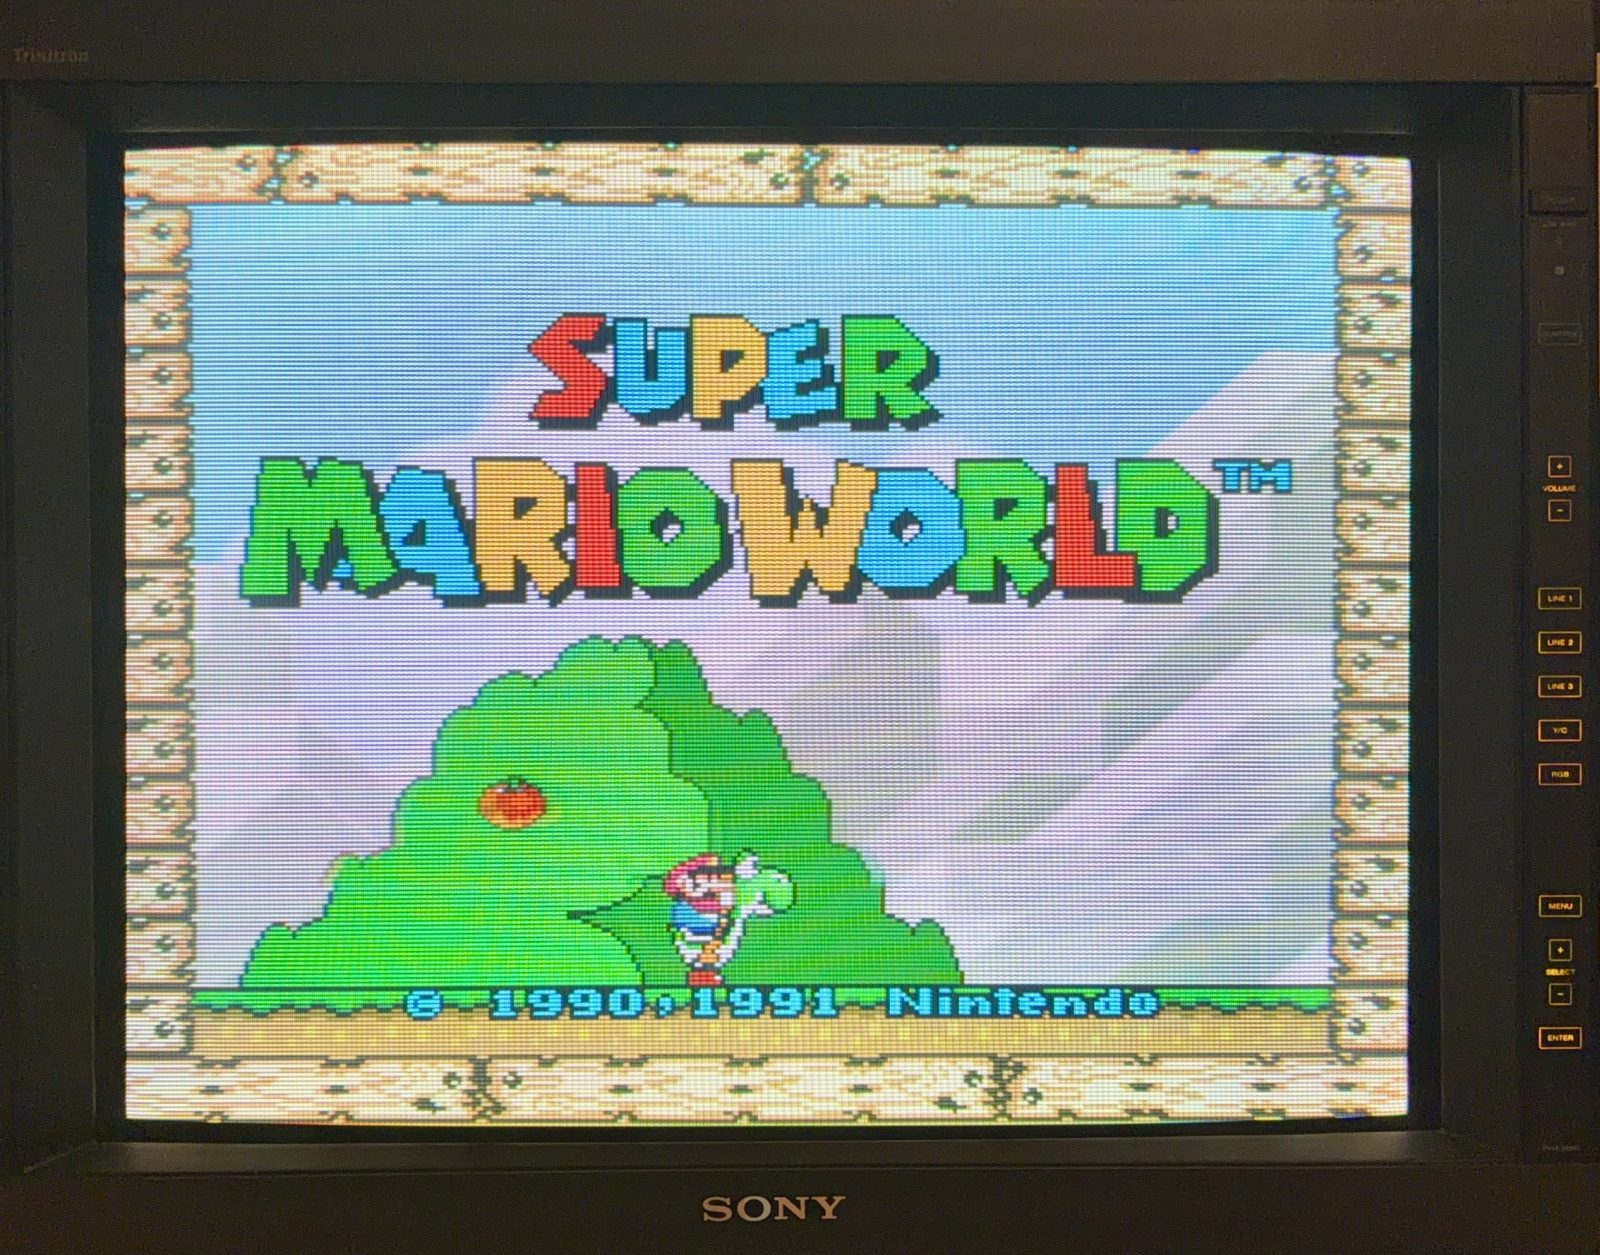
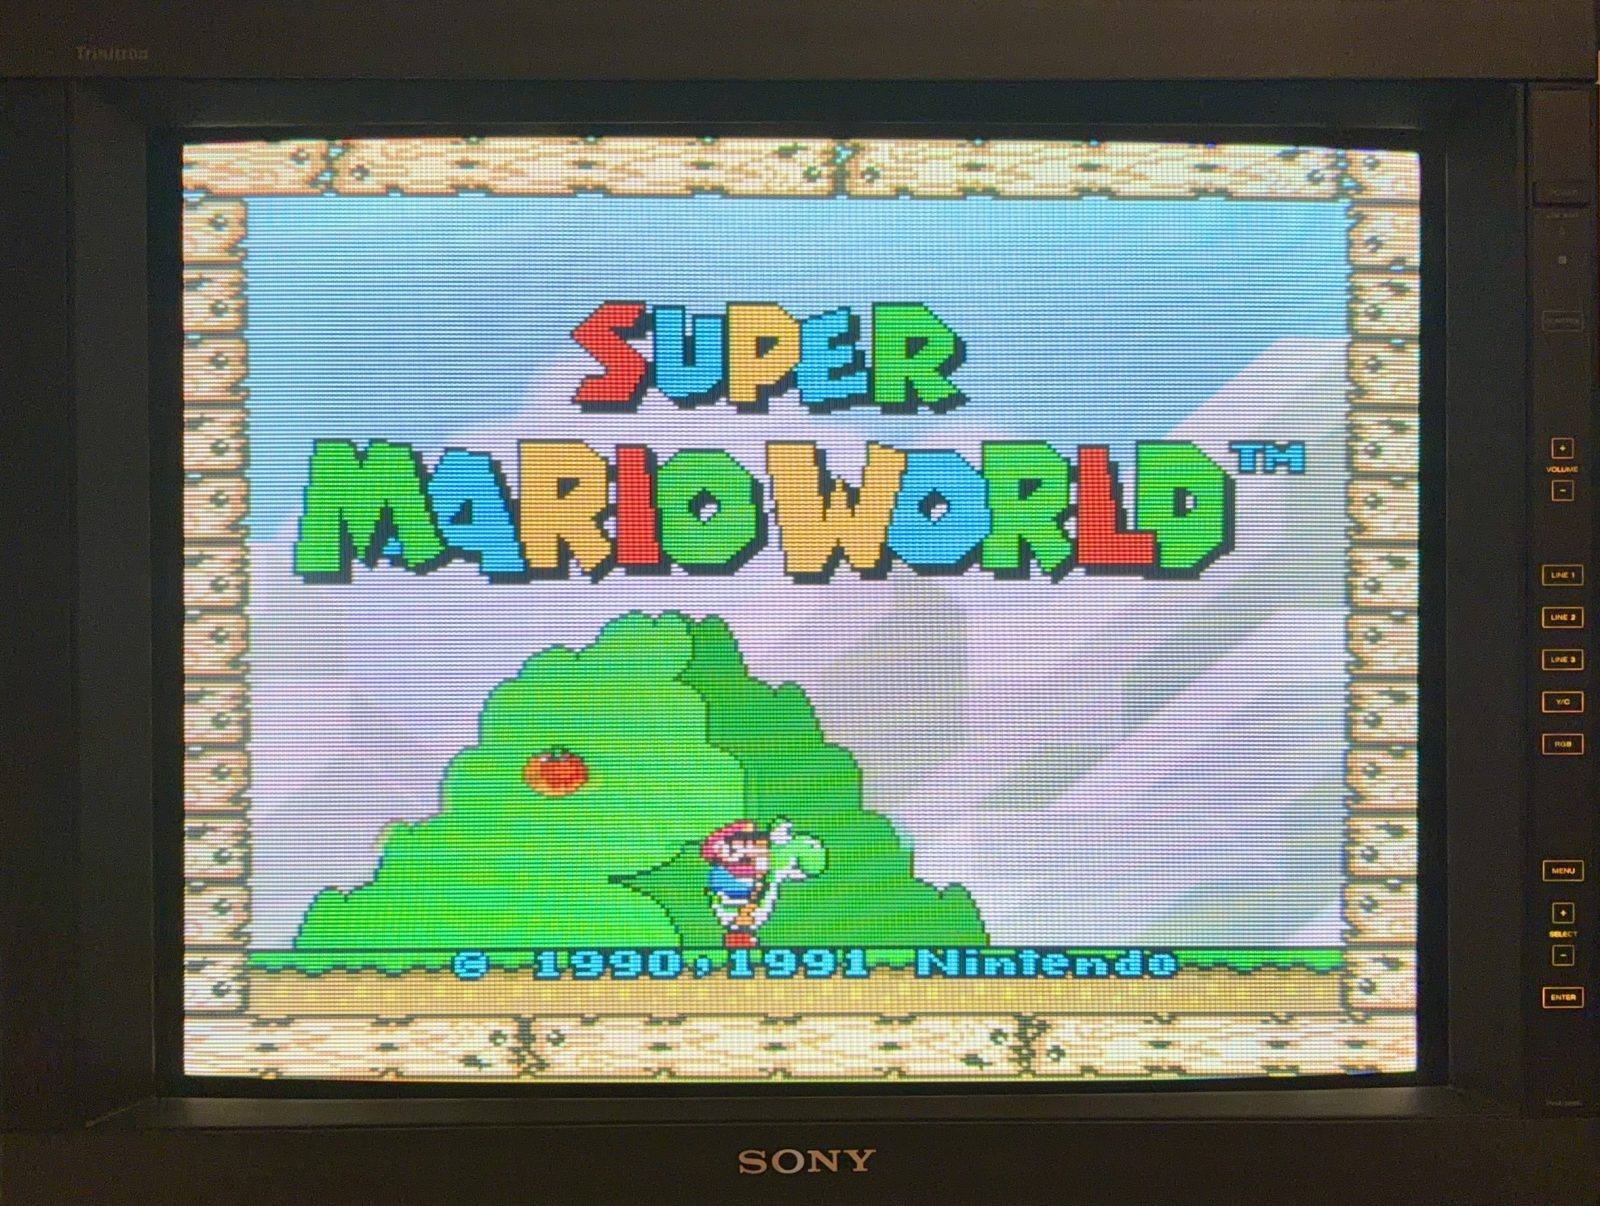
PVM-2950Q: use crop A -- cabinet edge to cabinet edge
The previous crop trimmed into the left cheek while leaving the right side
at the cabinet edge, which reads as uneven. David picked A. Same top and
bottom, left edge back out to the cabinet: (282,12)-(2640,1790) of the
IMG_3926 master -> 1600x1206, thumb 800x603, refs ?v=7.

diff --git a/assets/gallery-data.js b/assets/gallery-data.js
@@ -26,7 +26,7 @@ const GALLERY = [
   { type: "image", src: "media/2026/collectibles-shelf.jpg", title: "The shelf of accomplices", caption: "Gundam, Rick and Morty, and a full Thundercats bench keeping watch over the library", cat: "misc" , w: 800, h: 1067 },
   { type: "image", src: "media/2026/bvm-20e1u-lit.jpg", title: "BVM-20E1U", caption: "The primary broadcast chassis in the garage rack, AMS-100 on top — two BKM slots still open", cat: "monitors" , w: 800, h: 870 },
   { type: "image", src: "media/2026/bvm-a14f5u-lit.jpg?v=2", title: "BVM-A14F5U", caption: "Fully kitted: all three card slots filled, control panel and keypad flanking the tube", cat: "monitors" , w: 800, h: 603 },
-  { type: "image", src: "media/2026/pvm-2950q.jpg?v=6", title: "PVM-2950Q", caption: "The 29-inch presence in the game room, lit at night with Super Mario World on the tube", cat: "monitors" , w: 800, h: 627 },
+  { type: "image", src: "media/2026/pvm-2950q.jpg?v=7", title: "PVM-2950Q", caption: "The 29-inch presence in the game room, lit at night with Super Mario World on the tube", cat: "monitors" , w: 800, h: 603 },
   { type: "image", src: "media/2026/pvm-20l5.jpg?v=3", title: "PVM-20L5", caption: "Late-generation 20-inch multiformat, AMS-100 on top, Super Mario Sunshine on the tube", cat: "monitors" , w: 800, h: 834 },
   { type: "image", src: "media/2026/dk-portrait.jpg?v=2", title: "Donkey Kong", caption: "Blue plywood &mdash; marquee lit in the garage row", cat: "arcade" , w: 800, h: 1067 },
   { type: "image", src: "media/2026/unisystem-screen.jpg?v=2", title: "VS. Super Mario Bros.", caption: "The dedicated UniSystem in attract mode &mdash; the arcade version, which is not the one you remember", cat: "arcade" , w: 800, h: 600 },

diff --git a/monitors.html b/monitors.html
@@ -168,7 +168,7 @@
     <h2 class="sec">The fleet roster</h2>
     <div class="grid fleetgrid">
       <div class="card">
-        <img class="cthumb" src="media/thumbs/pvm-2950q.jpg?v=6" data-full="media/2026/pvm-2950q.jpg?v=6" alt="Sony PVM-2950Q 29-inch Trinitron production monitor lit at night running Super Mario World, its control panel and the SONY badge in frame" loading="lazy" width="800" height="627">
+        <img class="cthumb" src="media/thumbs/pvm-2950q.jpg?v=7" data-full="media/2026/pvm-2950q.jpg?v=7" alt="Sony PVM-2950Q 29-inch Trinitron production monitor lit at night running Super Mario World, its control panel and the SONY badge in frame" loading="lazy" width="800" height="603">
         <div class="sub">PVM &middot; Production</div>
         <h3>PVM-2950Q</h3>
         <p>Twenty-nine inches of presence, the biggest tube in the room. On screen: <em>Super Mario World</em>, 1990.</p>

diff --git a/CLAUDE.md b/CLAUDE.md
@@ -188,11 +188,13 @@ Vercel auto-deploys `main`; allow ~40s before verifying.
   `aspect-ratio:7/6` (the geometric mean of the four photos' ratios, so the matting is even),
   two columns, nothing cropped, rows perfectly aligned. **Recropping the source photo is a
   different thing and he asks for it** — `pvm-2950q.jpg` was recut from the
-  `IMG_3926.jpg` master at `(375,12)-(2642,1790)` → 1600×1255 / thumb 800×627, `?v=6`: the
+  `IMG_3926.jpg` master at `(282,12)-(2640,1790)` → 1600×1206 / thumb 800×603, `?v=7`: the
   old frame clipped 113px off the top of the cabinet and carried a slice of a neighbouring
   monitor down each side. The limits on that photo are the **Trinitron badge** (master
-  x≈385) on the left and the **button column** (master x 2533–2634) on the right; crop past
-  either and you are back to removing features. **Verify a "no-crop" layout
+  x≈385) on the left and the **button column** (master x 2533–2634) on the right. A tighter
+  crop into the left cheek was tried and rejected — **cropping one side and not the other
+  reads as crooked**: *"You cut too much off of the left side, now it looks uneven."* Frame
+  a symmetrical object symmetrically; cabinet edge to cabinet edge is the answer. **Verify a "no-crop" layout
   numerically** — measure each rendered box against `naturalWidth/Height` and assert the
   scaled image fits inside it; do not eyeball it.
 - **A card without a photo cannot share a grid row with one that has a photo.** In an
